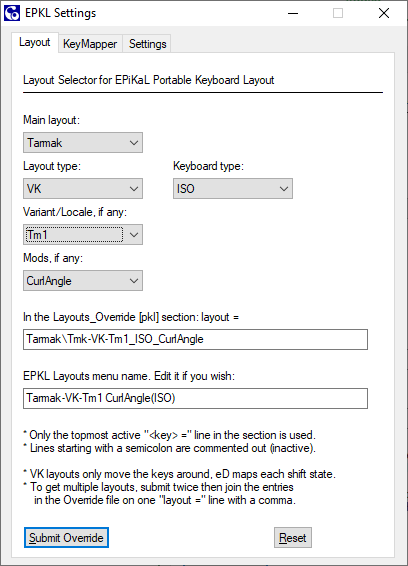
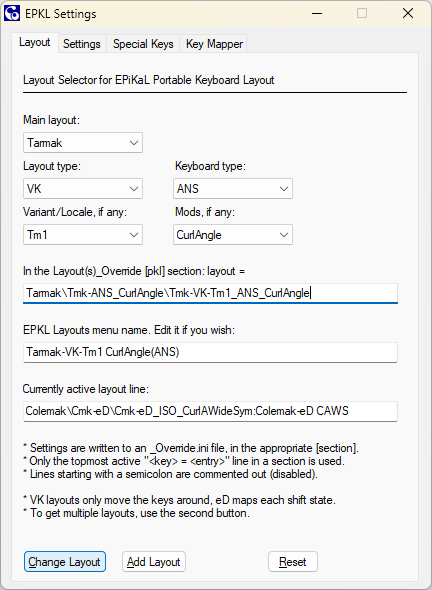
Add Layout button
* Made an Add Layout button in the Layout Selector.
* This allows multiple layout selection from the UI.

diff --git a/Source/EPKL_Source/README.md b/Source/EPKL_Source/README.md
@@ -602,7 +602,7 @@ VERSION HISTORY:
 	- Made a common useDots() fn to sort out relative file/dir paths, for use both by pklIniRead() and the new _seekBaseLayout().
 * EPKL v1.4.3: Ortho help images. WIP.
 	- Split KbdType into KbdType (ANS/ISO) and GeoType (RowS/Orth; RowS is default) in init, by the first hyphen.
-		- Can use a KbdType like `ANS-Orth` in layout files.
+		- Can then use a KbdType like `ANS-Orth` in layout files.
 	- Made a matrix/ortho image template, for ortho variants such as Curl w/o Angle, and more compact help images.
 		- Removed the Space/Modifier row. Added Space and AltGr at the lower right, in yellow. No Backspace nor Enter.
 		- One extra column, with Grave - ISO - Ext marker - Shift. Saves 2u (15u -> 13u) and one row (5r -> 4r).
@@ -621,19 +621,19 @@ VERSION HISTORY:
 		- Made a 6-7 remap that can easily be added to remedy any such issues, e.g., `mapSC_# = AWS_@K,6-7`.
 		+-------------------------------+
 		|  `  1 2 3 4 5 \ 6 7 8 9 0 =   |
-		| ISO b l d w q [ j f o u ' -   |   	Gralmak_Ortho-WideSym; w/o the 6-7 remap, it'd be `5 6 \ 7`
+		| ISO b l d w q [ j f o u ' -   |       Gralmak_Ortho-WideSym; w/o the 6-7 remap, it'd be `5 6 \ 7`
 		| Ext n r t s g ] y h a e i ;   |
 		| Shf z x m c v / k p , . ␣ AGr |
 		+-------------------------------+
 		- For an Ortho-Wide variant, don't use an Angle mod. Decide what you wish to do with the 6-7 issue.
-			- Then, in a Layout_Override you can turn on the Angle mod again to use the ortho images with a normie board.
-			- Another tack is to use your normal layout and in its Layout_Override use `img_` settings; see the example file.
-	- Swapped NumPad `* -` on the Ext2 layer. It just feels more natural and NumPad-like now.
+			- To use the ortho images with a normie board, you can turn on the Angle mod again in your Layout_Override.
+			- Another tack is to use your normie layout and in its Layout_Override use `img_` settings; see the example file.
+	- Swapped NumPad `* -` on the Ext2 layer. It just feels more natural and NumPad-like.
 		- The NumPad layer didn't feel good w/ respect to the traditional top-row `/ * -`. The `+ ↵` were okay.
 		- NumPads sometimes have minus above one-row plus. (These may have Backspace in the corner spot.)
 		- Now, `* /` are on the same column, and right above each other on ISO/Ortho-Wide setups.
 		+-----------+
-		| 7 8 9 - * |   	Was: * -
+		| 7 8 9 - * |       Was: * -
 		| 4 5 6 + / |
 		| 1 2 3 ↵ ' |
 		| 0 0 ,     |
@@ -643,10 +643,12 @@ VERSION HISTORY:
 		- Made a `ŁayÐir` special run-target syntax for the active layout's folder. This is now the default for runTarget().
 	- Made ortho naming more consistent. There were some layouts using `Orth`, and others `Ortho`. Now all are `Orth`.
 		- Technically, you can use both as KbdType. But it's inconsistent to say `ANS-Ortho`, instead of `ANS-Orth` or `ANSI-Ortho`.
-	- Minor CoDeKey rework. Swapped `^`/`~` to Cmk J/B, and added triple-backtick to Cmk Shift+P.
+	- Minor CoDeKey rework. Swapped `^`/`~` to Cmk J/B, added ` ... ` on `.` and triple-backtick on Cmk Shift+P.
 		- On ortho boards at least,`^` now sits right under 6. And the fancy 3-`` PowerString doesn't work on Discord.
-	
 	- Fixed: Hitting Enter when any DK was active would output Ctrl+Shift+J, which opens the Parent Process Browser Console in Firefox.
 		- Adding `{Enter}` to `endDKs` (the list of keys that cancel DKs) solved the issue.
+	- Shift/AltGr+Repeat now repeats 2–4 times (2:Sh,3:AGr,4:Sh+AGr).
 	- Tapping Repeat with the LastKeys queue empty, now clears all OneShotMod timers.
 		- This helps when, say, the CoDeKey has sent punctuation-space-capitalization and you don't want the capitalization.
+	- "Add Layout" button in the Layout Selector GUI. Appends the selected layout to the current layout line.
+		- Also a field showing the currently active layout line. For the advanced, this is editable if you want full control.

diff --git a/README.md b/README.md
@@ -82,7 +82,7 @@ If you find my info below and on the Big Bag pages too daunting and massive, do 
 
 External guides may not be fully updated to show everything the Layout/Settings menu can do for instance! So do try that, too.
 The Settings dialog holds some useful info points for each tab, and the KeyMapper tab has its own Help button.
-<br>
+<br><br>
 
 ![EPKL layout dialog](./Other/Docs/EPKL_Layout-UI.png)
 
@@ -170,9 +170,8 @@ QWCLK = Extend  	Mod 		; SC03a: CapsLock as the Extend modifier
 ```
 - Add a semicolon before the line you don't want, and remove the one before the line you do want to use.
 - Note the bottom line there? You can actually have both: Backspace on tapping <kbd>Caps</kbd>, Extend on holding it!
-- It's actually the default setting for the KeyMapper tab of the Layout/Settings dialog. Press the Submit button and you're on.
-<br>
-    - … in the [Layouts Default file][LayDef] find the first `;QWCLK = BACK` etc line and remove that semicolon …
+- That's actually the default setting for the KeyMapper tab of the Layout/Settings dialog. Press button below and you're on:
+<br><br>
 
 ![EPKL settings dialog](./Other/Docs/EPKL_Settings-UI.png)
 
